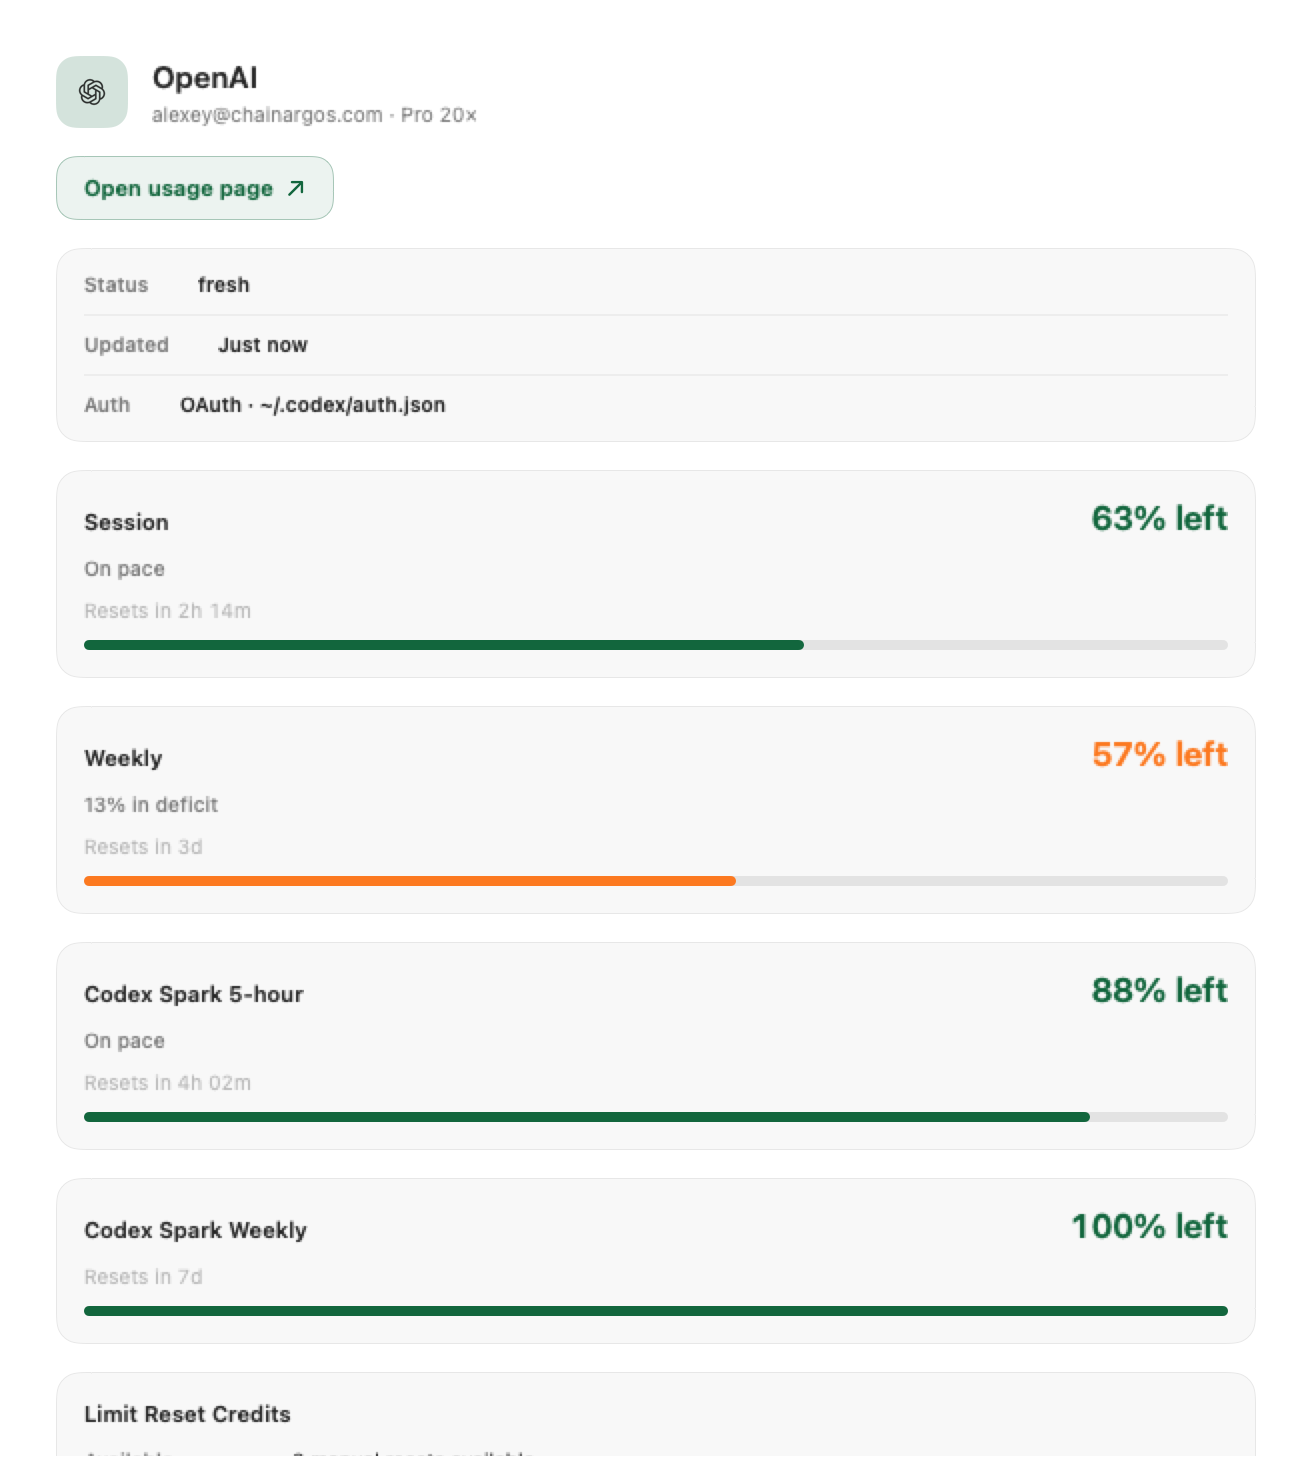
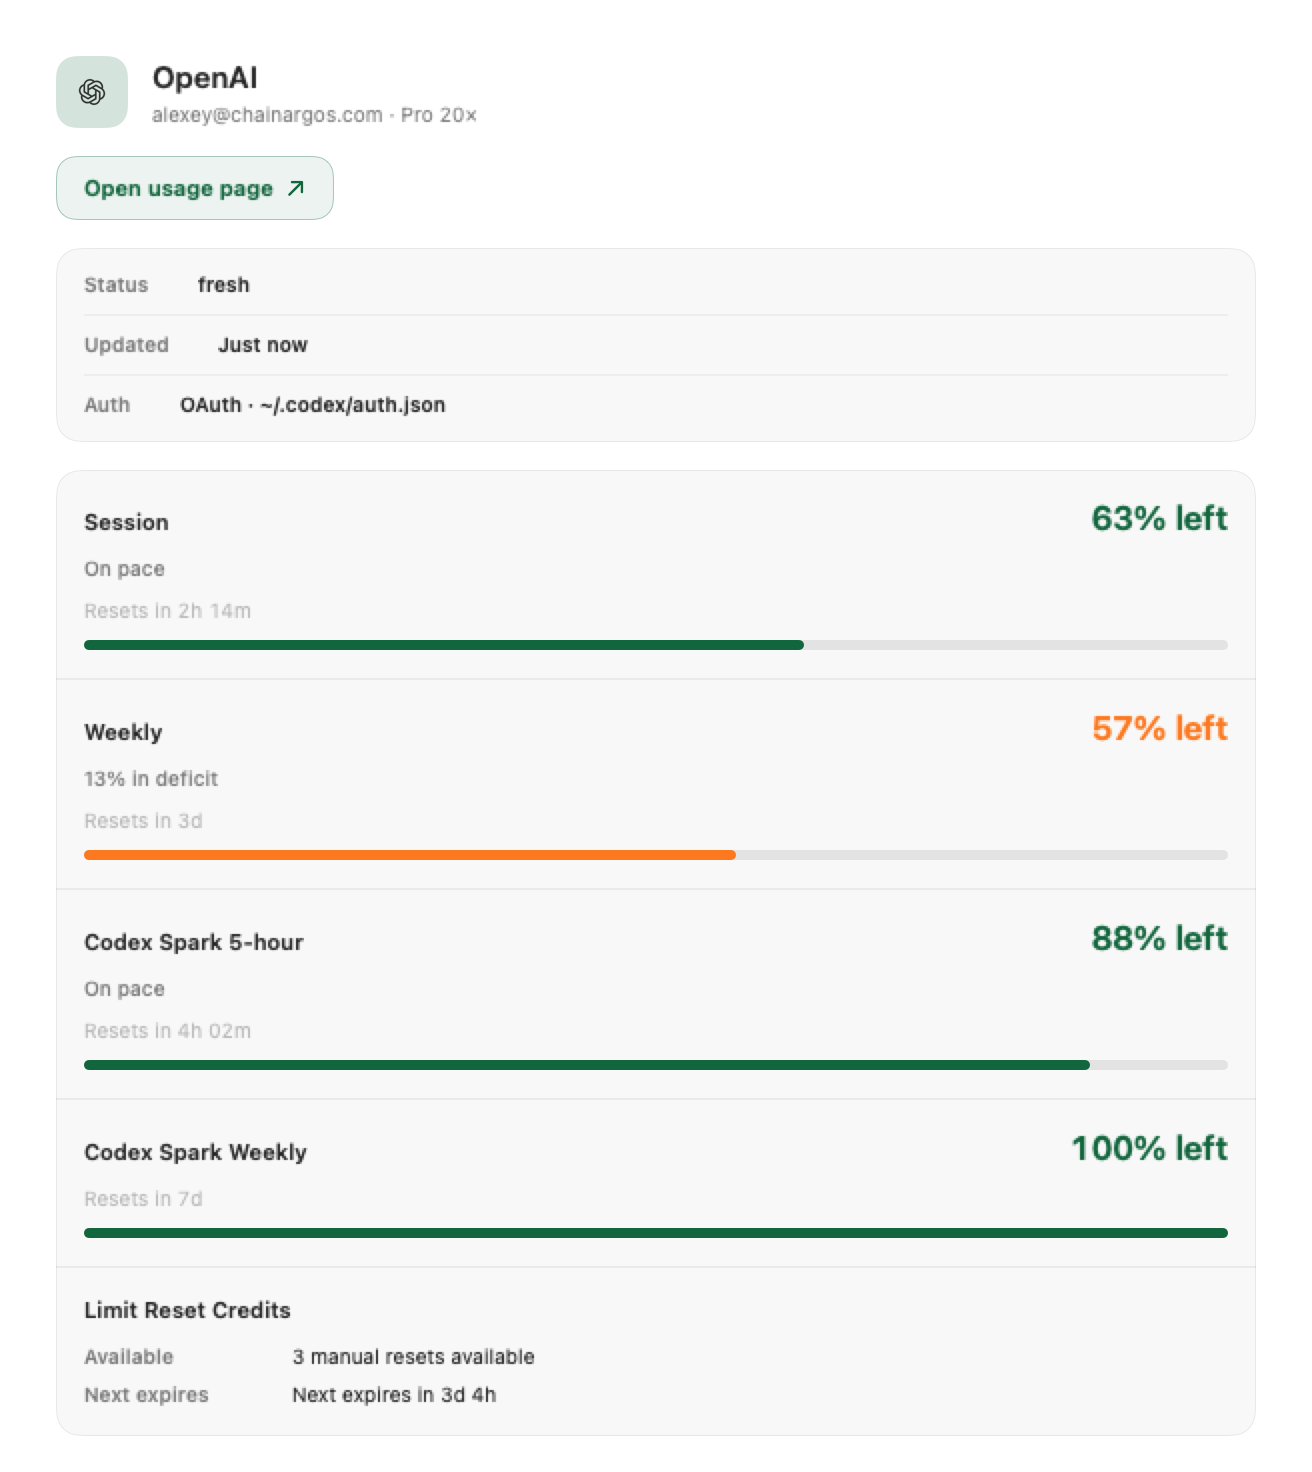
fix(desktop): group Usage limit rows
Bucket helpers owned their card shells, so repeated Rust rows became separate floating cards instead of the oracle's single divided list.

Changed region(s): [[0.0625, 0.4688, 0.9375, 0.9688], [0.8125, 0.625, 0.9375, 0.6875], [0.8125, 0.4688, 0.9375, 0.5312]]

diff --git a/native/Sources/JackinDesktop/UsageWindow/ProviderCardView.swift b/native/Sources/JackinDesktop/UsageWindow/ProviderCardView.swift
@@ -51,13 +51,7 @@ public struct ProviderCardView: View {
                     }
                 }
 
-                ForEach(content.detail.rows.filter { $0.kind == .bucket }) { row in
-                    if row.label == "Limit Reset Credits" {
-                        limitResetCreditsCard(row)
-                    } else {
-                        bucketCard(row)
-                    }
-                }
+                limitList
             }
             .padding(20)
         }
@@ -128,8 +122,29 @@ public struct ProviderCardView: View {
         .accessibilityLabel(ProviderUsageLinks.openUsagePageTitle)
     }
 
+    /// One inset list owns all limit rows, matching HTML `.limit-list` structure.
+    private var limitList: some View {
+        let bucketRows = content.detail.rows.filter { $0.kind == .bucket }
+
+        return VStack(alignment: .leading, spacing: 0) {
+            ForEach(Array(bucketRows.enumerated()), id: \.element.id) { index, row in
+                if index > 0 {
+                    Divider().opacity(0.55)
+                }
+                if row.label == "Limit Reset Credits" {
+                    limitResetCreditsRow(row)
+                } else {
+                    bucketRow(row)
+                }
+            }
+        }
+        .background {
+            GlassFallbacks.contentCardBackground()
+        }
+    }
+
     /// Bound bucket: show every Rust layout line as labeled detail (count, next expiry, …).
-    private func limitResetCreditsCard(_ row: UsageDetailRow) -> some View {
+    private func limitResetCreditsRow(_ row: UsageDetailRow) -> some View {
         VStack(alignment: .leading, spacing: 10) {
             Text(row.label)
                 .font(.subheadline.weight(.semibold))
@@ -160,9 +175,6 @@ public struct ProviderCardView: View {
         }
         .padding(14)
         .frame(maxWidth: .infinity, alignment: .leading)
-        .background {
-            GlassFallbacks.contentCardBackground()
-        }
         .accessibilityElement(children: .combine)
         .accessibilityLabel("\(row.label) \(row.displayLabel)")
     }
@@ -226,7 +238,7 @@ public struct ProviderCardView: View {
 
     /// Limit card — label + hero remaining (primary), pace/reset secondary, meter last
     /// (matches `index.html` Usage `.limit` anatomy / VS-11).
-    private func bucketCard(_ row: UsageDetailRow) -> some View {
+    private func bucketRow(_ row: UsageDetailRow) -> some View {
         let hero = row.layoutLines.compactMap(\.leading).first
         let secondaryLeadings = Array(row.layoutLines.dropFirst().compactMap(\.leading))
         let resetTrailings = row.layoutLines.compactMap(\.trailing)
@@ -274,10 +286,6 @@ public struct ProviderCardView: View {
         }
         .padding(14)
         .frame(maxWidth: .infinity, alignment: .leading)
-        .background {
-            // Content layer — standard material only (LG-A2 / HIG).
-            GlassFallbacks.contentCardBackground()
-        }
         .accessibilityElement(children: .combine)
         .accessibilityLabel("\(row.label) \(row.displayLabel)")
     }

diff --git a/native/Tools/DesktopArchitectureLint/main.swift b/native/Tools/DesktopArchitectureLint/main.swift
@@ -39,6 +39,7 @@ struct DesktopArchitectureLint {
         checkUsageWindowToolbarHost(desktopRoot: desktop)
         checkStatusPopoverFocusWiring(desktopRoot: desktop)
         checkPrimaryControlCraft(desktopRoot: desktop)
+        checkUsageDetailGrouping(desktopRoot: desktop)
         run(desktopRoot: desktop)
     }
 
@@ -194,6 +195,30 @@ struct DesktopArchitectureLint {
             print("PASS  primary controls avoid solid phosphor slabs")
         } else {
             print("DesktopArchitectureLint: primary-control FAILURE")
+            exit(1)
+        }
+    }
+
+    /// G-U6: limit rows share one list container; row helpers cannot create cards.
+    static func checkUsageDetailGrouping(desktopRoot: URL) {
+        let path = desktopRoot.appendingPathComponent("UsageWindow/ProviderCardView.swift")
+        guard let text = try? String(contentsOf: path, encoding: .utf8) else {
+            fputs("FAIL  ProviderCardView.swift missing\n", stderr)
+            exit(2)
+        }
+        let required = [
+            "private var limitList: some View",
+            "ForEach(Array(bucketRows.enumerated())",
+            "if index > 0 {",
+            "private func bucketRow",
+            "private func limitResetCreditsRow",
+        ]
+        let forbidden = ["private func bucketCard", "private func limitResetCreditsCard"]
+        let ok = required.allSatisfy(text.contains) && forbidden.allSatisfy { !text.contains($0) }
+        if ok {
+            print("PASS  Usage detail groups limit rows in one list")
+        } else {
+            print("FAIL  Usage detail must retain one limit-list container with divided rows")
             exit(1)
         }
     }

diff --git a/advisor-plans/qi-artifacts/deltas/2026-08-10-usage-detail-openai.md b/advisor-plans/qi-artifacts/deltas/2026-08-10-usage-detail-openai.md
@@ -1,6 +1,6 @@
 # QI delta: usage-detail-openai · Dark + Light (G-U6/G-U7)
 
-**Date:** 2026-08-10 · **Tip:** `bd3f3dc9`  
+**Date:** 2026-08-10 · **Tip:** `44bdc3e8` + audited worktree  
 **Oracle HTML:** `html/usage-detail-openai-{dark,light}.png`  
 **Native:** `native/usage-detail-openai-{dark,light}.png` (ProviderCardView)
 
@@ -11,11 +11,12 @@
 | Head | OpenAI · account · Pro 20× | same | Yes |
 | Open usage page | quiet tinted hairline + external | same; no solid phosphor slab | Yes |
 | Meta | Status fresh · Updated · Auth | same | Yes |
+| Limit container | one inset list + row dividers | same | Yes |
 | Session | **63% left** green | same | Yes |
 | Weekly | **57% left** orange · 13% deficit | same | Yes |
 | Spark 5-hour | **88% left** | same | Yes |
 | Spark Weekly | present in native | **100% left** | Yes |
-| LRC | Limit Reset | present (may clip) | Yes |
+| LRC | structured final list row | same | Yes |
 | Light theme | same meters | same | Yes |
 | Limits only | no prices | no prices | Yes |
 
@@ -25,6 +26,14 @@
 |----------|---------|-------|
 | Low | Sidebar | HTML full window includes nest; native detail-only snap |
 | Low | Exact calendar | Native compact Rust segments |
+
+## False-pass correction
+
+Earlier evidence marked the detail anatomy Pass while native rendered every
+Rust bucket as a separate floating card. The root cause was container ownership
+inside `bucketCard`: repetition duplicated the card shell. Native now has one
+`limitList` shell; bucket helpers render rows only. Architecture lint guards
+that ownership boundary.
 
 ## Verdict
 **Verdict: Pass** (Dark + Light)

diff --git a/advisor-plans/VISUAL_QA_LOG.md b/advisor-plans/VISUAL_QA_LOG.md
@@ -55,6 +55,11 @@ Popover geometry re-audit replaced generic 12 pt cards / 28 pt rounded heroes
 with HTML’s 14 pt content-card geometry and 32 pt monospaced metrics. Overview
 groups and every provider block now share those named tokens.
 
+Usage-detail re-audit corrected a structural false-pass: repeated Rust buckets
+no longer create separate floating cards. One inset limit-list now owns all
+quota rows and full-width dividers, including structured Limit Reset Credits,
+matching the HTML oracle in deterministic dark/light component captures.
+
 ## Live
 popover-live / ctx-menu **BLOCKED** — SoTParity proves focus/menu.
 
